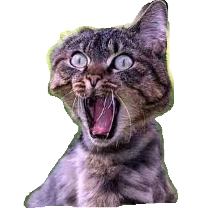
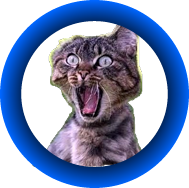
Centralização das imagens e ajustes nas imagens e tamanho da tela.

diff --git a/js/game.js b/js/game.js
@@ -21,7 +21,13 @@ tempoFinal = tempoInicial;
 
 nivel = 1;
 
+telaW = null;
+telaH = null;
+
 function setup() {
+	telaW = window.innerWidth - 100;
+	telaH = window.innerHeight - 100;
+	
 	var body = document.getElementById("body");
 
 	var div = document.createElement("div");
@@ -30,8 +36,8 @@ function setup() {
 	var canvas = document.createElement("canvas");
 		canvas.id = "canvas";
 
-		canvas.width = window.innerWidth;
-		canvas.height = window.innerHeight;
+		canvas.width = telaW;
+		canvas.height = telaH;
 
 		canvas.addEventListener("mousedown",saveAnt,false);
 		window.addEventListener("keydown",keyboardEvent, true);
@@ -131,14 +137,14 @@ function processarPassos() {
 	if(speedy <= 0) {
 		speedy = 0;	
 	}
-	if(speedy >= window.innerHeight) {
-		speedy = window.innerHeight;	
+	if(speedy >= telaH) {
+		speedy = telaH;	
 	}
 	if(speedx <= 0) {
 		speedx = 0;	
 	}
-	if(speedx >= window.innerWidth) {
-		speedx = window.innerWidth;	
+	if(speedx >= telaW) {
+		speedx = telaW;	
 	}
 
 	if(speedx > sfx) {
@@ -155,14 +161,14 @@ function processarPassos() {
 }
 
 function createBug() {
-	sfx = Math.floor(Math.random()*(window.innerWidth-100));
-	sfy = Math.floor(Math.random()*(window.innerHeight-100));
+	sfx = Math.floor(Math.random()*(telaW-100));
+	sfy = Math.floor(Math.random()*(telaH-100));
 
 	while (sfx < 500) {
-		sfx = Math.floor(Math.random()*(window.innerWidth-100));
+		sfx = Math.floor(Math.random()*(telaW-100));
 	}
 	while (sfy < 500) { 
-		sfy = Math.floor(Math.random()*(window.innerHeight-100));
+		sfy = Math.floor(Math.random()*(telaH-100));
 	}
 
 	mp += 1;
@@ -209,18 +215,18 @@ function renderBackground() {
 	if(ctx && bkg) {
 		ctx.fillStyle = "white";
 		ctx.fillRect(0,0,window.innerWidth,window.innerHeight);
-		ctx.drawImage(bkg,0,0);
+		printImg(bkg, telaW/2.5, telaH/2)
 
 		//Titulo
 		ctx.font = '40pt Calibri';
 	    ctx.lineWidth = 3;
 	    ctx.strokeStyle = 'blue';
-	    ctx.strokeText('Save Ant. V1.0', window.innerWidth/2 , 50);
+	    ctx.strokeText('Save Ant. V1.0', telaW/2 , 50);
 	    //By
 		ctx.font = '10pt sans-serif';
 	    ctx.lineWidth = 1;
 	    ctx.strokeStyle = 'red';
-	    ctx.strokeText('por Yuri Fialho', window.innerWidth/2 , 70);
+	    ctx.strokeText('por Yuri Fialho', telaW/2 , 70);
 	}
 }
 
@@ -247,21 +253,23 @@ function renderMenu() {
 
 function renderGame() {
 	//Draw Ant
-	ctx.drawImage(bugImg,sfx,sfy);
+	printImg(bugImg,sfx,sfy);
 	//Draw Spider
-	ctx.drawImage(img,speedx,speedy);
+	printImg(img,speedx,speedy);
 	console.debug("SF: " + sfx + ":" + sfy + " - SP: " + speedx + ":" + speedy);
 }
 
 function renderGameOver() {
 	if(ctx) {
-		ctx.font = '40pt Calibri';
+			ctx.font = '40pt Calibri';
     	ctx.lineWidth = 3;
     	ctx.strokeStyle = 'red';
     	ctx.strokeText("Fim de jogo, você conseguiu: " + (mp == 1 ? 0 : (mp * 100)) + " Pontos", 200 , 400);
-    	ctx.strokeText("(Press <Enter> to start again!)", 200 , 450);
-
-    	ctx.drawImage(overImg, 300, 100);
+			ctx.font = '20pt Calibri';
+    	ctx.lineWidth = 1;
+    	ctx.strokeText("(Pressione <Enter> para começar novamente!)", 200 , 430);
+			
+			printImg(overImg,100,400);
 	}
 }
 
@@ -276,13 +284,15 @@ function renderPause() {
 
 function renderSafe() {
 	if(ctx) {
-		ctx.font = '40pt Calibri';
+			ctx.font = '40pt Calibri';
     	ctx.lineWidth = 3;
     	ctx.strokeStyle = 'red';
     	ctx.strokeText("Parabéns, você conseguiu!", 200 , 400);
-    	ctx.strokeText("(Pressione <Enter> para ir ao próximo nível!)", 200 , 450);
-
-    	ctx.drawImage(bugHpy, 300, 200);
+			ctx.font = '20pt Calibri';
+			ctx.lineWidth = 1;
+    	ctx.strokeText("(Pressione <Enter> para ir ao próximo nível!)", 200 , 430);
+			
+			printImg(bugHpy,150,400);
 	}
 }
 
@@ -292,6 +302,21 @@ function renderStartGame() {
     	ctx.lineWidth = 3;
     	ctx.strokeStyle = 'red';
     	ctx.strokeText("Bem vindo!", 200 , 400);
-    	ctx.strokeText("(Pressione <Enter> para iniciar o jogo)", 200 , 450);
+			ctx.font = '20pt Calibri';
+			ctx.lineWidth = 1;
+    	ctx.strokeText("(Pressione <Enter> para iniciar o jogo)", 200 , 430);
 	}
+}
+
+/* UTILS */
+
+function printImg(pimg, x, y) {
+	//dimensoes
+	var w = pimg.width;
+	var h = pimg.height;
+	//centros
+	var cx = -w * 0.5;
+	var cy = -h * 0.5;
+	
+	ctx.drawImage(pimg,0,0,w,h,x + cx,y + cy,w,h);
 }
